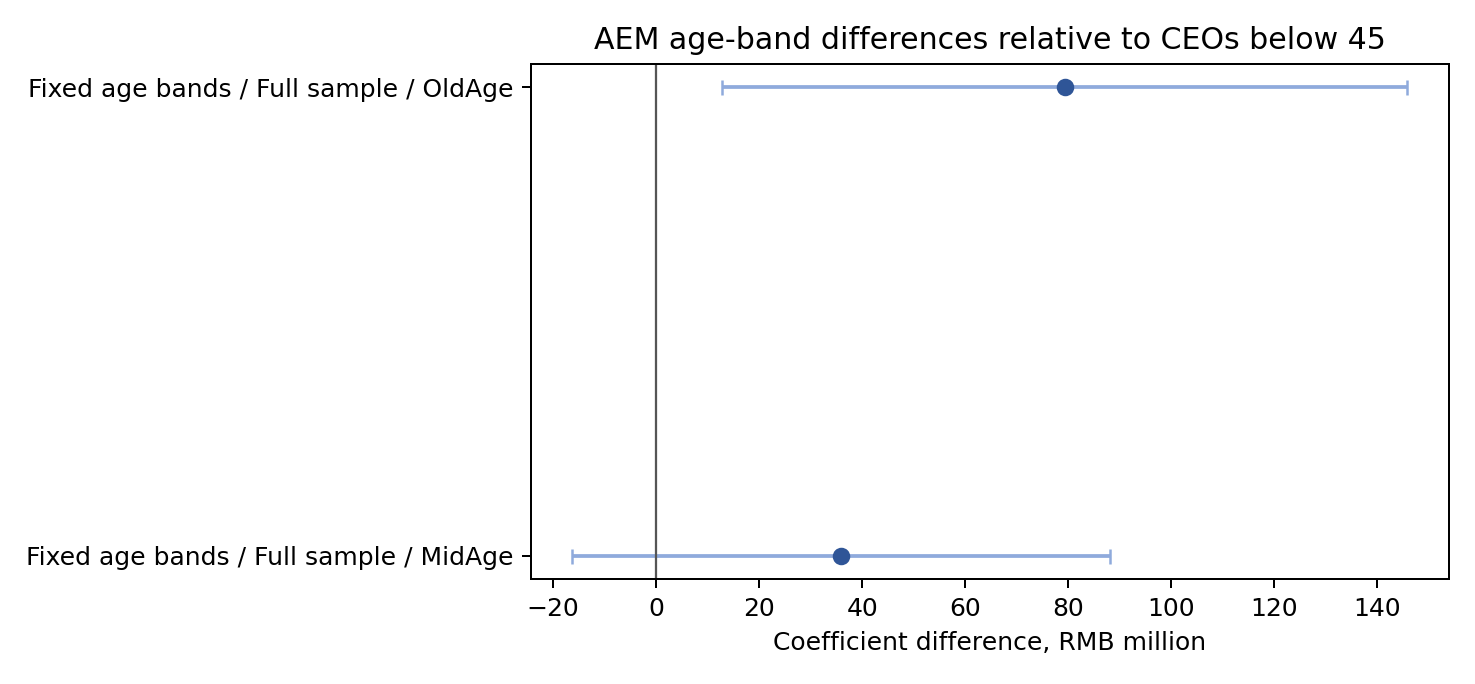
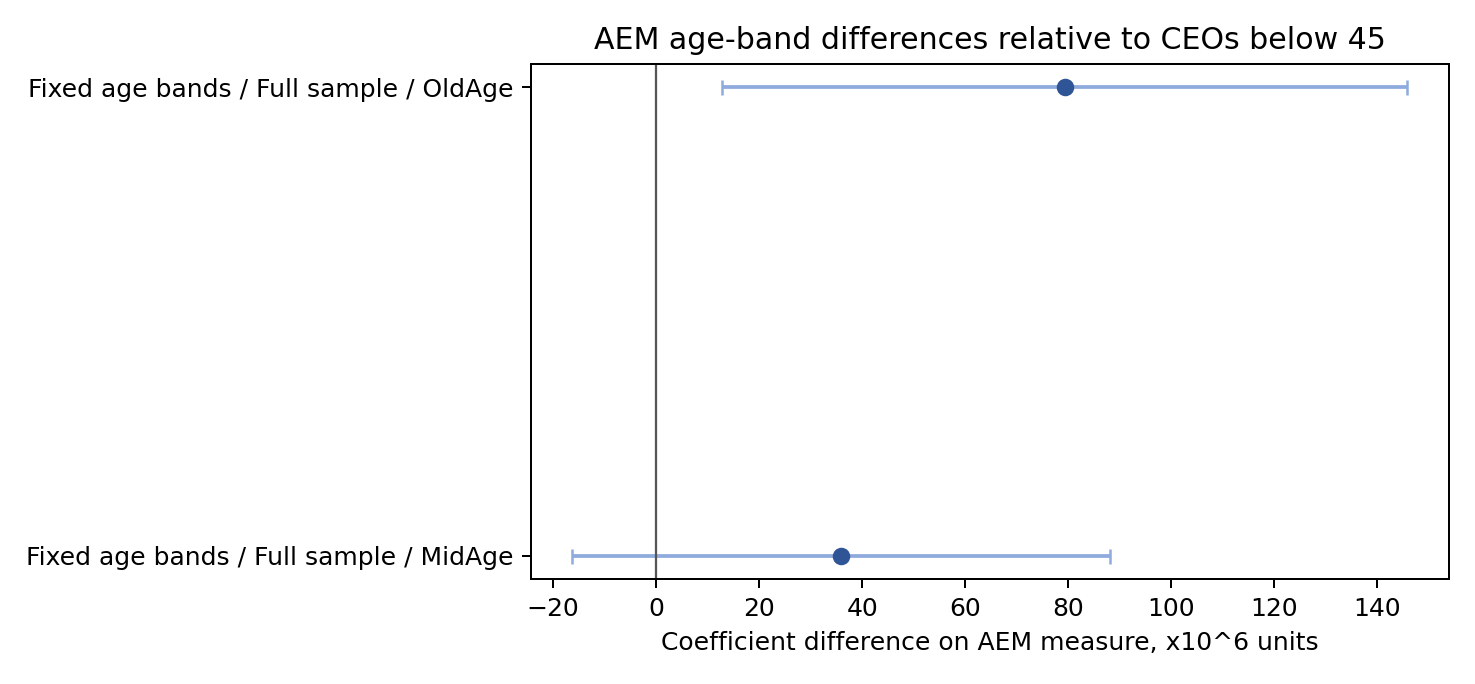
Clarify interpretation of AEM coefficient

Changed region(s): [[0.4366, 0.9211, 0.9044, 0.9518]]

diff --git a/scripts/build_figures.py b/scripts/build_figures.py
@@ -9,11 +9,11 @@ def run(config):
     out = Path(cfg["output_dir"])
     figs = Path(cfg["figure_dir"])
     save_sample_flow(out / "sample_summary.csv", figs / "sample_flow.png")
-    save_continuous_age_plot(out / "reproduced_primary_results.csv", "AEM_w", figs / "aem_coefficients.png", "CEO_age_w coefficients for AEM models", 1_000_000, "Coefficient per one-year increase, RMB million")
+    save_continuous_age_plot(out / "reproduced_primary_results.csv", "AEM_w", figs / "aem_coefficients.png", "CEO_age_w coefficients for AEM models", 1_000_000, "Coefficient on AEM measure, x10^6 units")
     save_continuous_age_plot(out / "reproduced_primary_results.csv", "REM", figs / "rem_coefficients.png", "CEO_age_w coefficients for REM models", 1.0, "Coefficient per one-year increase")
-    save_age_band_plot(out / "reproduced_primary_results.csv", "AEM_w", figs / "aem_age_band_robustness.png", "AEM age-band differences relative to CEOs below 45", 1_000_000, "Coefficient difference, RMB million")
+    save_age_band_plot(out / "reproduced_primary_results.csv", "AEM_w", figs / "aem_age_band_robustness.png", "AEM age-band differences relative to CEOs below 45", 1_000_000, "Coefficient difference on AEM measure, x10^6 units")
     save_age_band_plot(out / "reproduced_primary_results.csv", "REM_w", figs / "rem_age_band_robustness.png", "REM age-band differences relative to CEOs below 45", 1.0, "Coefficient difference")
-    save_covariance_plot(out / "reproduced_sensitivity_results.csv", "AEM_w", figs / "covariance_sensitivity_aem.png", "Baseline AEM covariance sensitivity", 1_000_000, "Coefficient per one-year increase, RMB million")
+    save_covariance_plot(out / "reproduced_sensitivity_results.csv", "AEM_w", figs / "covariance_sensitivity_aem.png", "Baseline AEM covariance sensitivity", 1_000_000, "Coefficient on AEM measure, x10^6 units")
     save_covariance_plot(out / "reproduced_sensitivity_results.csv", "REM", figs / "covariance_sensitivity_rem.png", "Baseline REM covariance sensitivity", 1.0, "Coefficient per one-year increase")
 
 

diff --git a/README.md b/README.md
@@ -18,7 +18,7 @@ The public models use firm and year fixed effects. The main reported inference u
 
 ## Main Re-Estimated Results
 
-In the firm-clustered baseline specification, the association between `CEO_age_w` and `AEM_w` is positive: coefficient 4,727,401.705, or 4.727 RMB million for display. The p-value is 0.0352. The association between `CEO_age_w` and `REM` is negative: coefficient -0.0020135, with p-value 0.0861. The REM estimate reaches the 10% level under the main firm-clustered setting, so it should be read as weaker than the AEM result.
+In the firm-clustered baseline specification, CEO age is positively associated with the AEM measure: coefficient 4,727,401.705 (approximately 4.73 x 10^6 in the measure's units), with p-value 0.0352. The association between `CEO_age_w` and `REM` is negative: coefficient -0.0020135, with p-value 0.0861. The REM estimate reaches the 10% level under the main firm-clustered setting, so it should be read as weaker than the AEM result.
 
 ## Reproducible Scope
 

diff --git a/docs/results.md b/docs/results.md
@@ -9,6 +9,8 @@ All tables below use `results/reproduced_primary_results.csv`, generated by the 
 | Baseline | AEM_w | CEO_age_w | Full sample | 4,727,401.705 | 2,244,494.078 | 0.0352 | 12,529 | 2,944 | firm clustered |
 | Baseline | REM | CEO_age_w | Full sample | -0.00201351 | 0.00117285 | 0.0861 | 12,529 | 2,944 | firm clustered |
 
+The baseline AEM row should be read as a positive association with the AEM measure used in the analysis; the repository does not assign a monetary unit to that measure.
+
 ## Median Age Split
 
 | Analysis | Dependent | Core variable | Sample | Coef. | Std. error | p-value | Obs. | Firms | Covariance |
